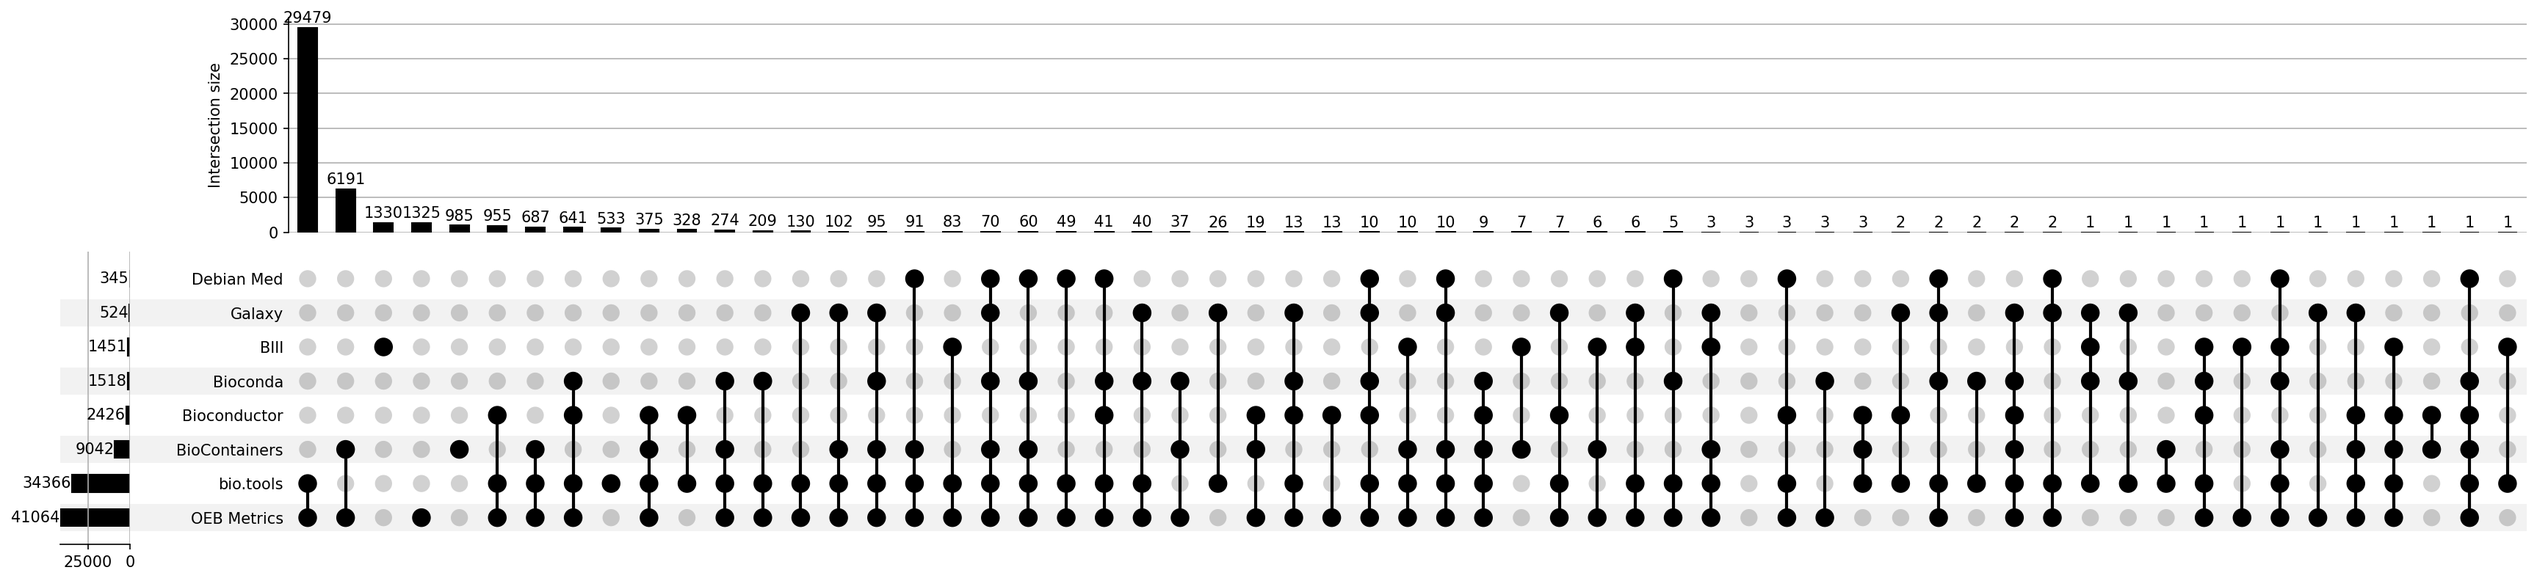
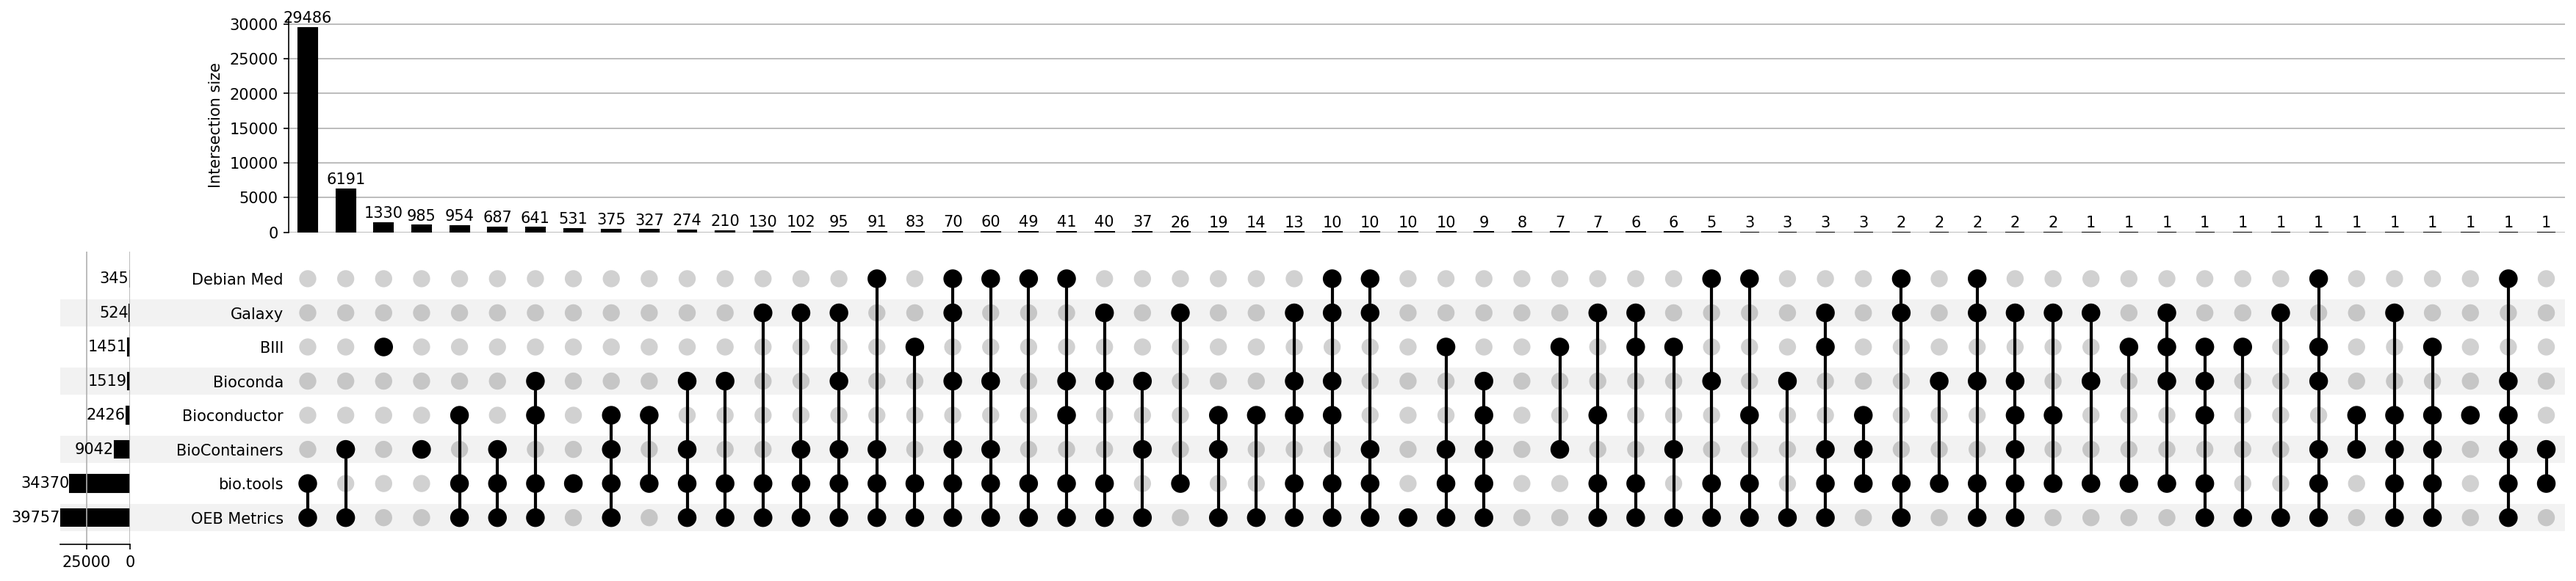
generate new contents report on Sun Aug 30 06:13:50 UTC 2026

diff --git a/report/summary.md b/report/summary.md
@@ -1,17 +1,17 @@
 # RSEc contents summary
 
-44288 tool folders, 8 sources.
+42984 tool folders, 8 sources.
 
 ## Tools per source
 
 | source | tools | share |
 | --- | --- | --- |
-| bio.tools | 34366 | 77.6% |
-| OEB Metrics | 41064 | 92.7% |
-| BioContainers | 9042 | 20.4% |
-| Bioconductor | 2426 | 5.5% |
-| Bioconda | 1518 | 3.4% |
-| BIII | 1451 | 3.3% |
+| bio.tools | 34370 | 80.0% |
+| OEB Metrics | 39757 | 92.5% |
+| BioContainers | 9042 | 21.0% |
+| Bioconductor | 2426 | 5.6% |
+| Bioconda | 1519 | 3.5% |
+| BIII | 1451 | 3.4% |
 | Galaxy | 524 | 1.2% |
 | Debian Med | 345 | 0.8% |
 
@@ -19,11 +19,11 @@
 
 | sources | tools | share |
 | --- | --- | --- |
-| 0 | 3 | 0.0% |
-| 1 | 4173 | 9.4% |
-| 2 | 36054 | 81.4% |
-| 3 | 2181 | 4.9% |
-| 4 | 1557 | 3.5% |
+| 0 | 8 | 0.0% |
+| 1 | 2857 | 6.6% |
+| 2 | 36061 | 83.9% |
+| 3 | 2181 | 5.1% |
+| 4 | 1557 | 3.6% |
 | 5 | 236 | 0.5% |
 | 6 | 84 | 0.2% |
 
@@ -31,19 +31,18 @@
 
 | sources present | tools |
 | --- | --- |
-| bio.tools + OEB Metrics | 29479 |
+| bio.tools + OEB Metrics | 29486 |
 | OEB Metrics + BioContainers | 6191 |
 | BIII only | 1330 |
-| OEB Metrics only | 1325 |
 | BioContainers only | 985 |
-| bio.tools + OEB Metrics + Bioconductor | 955 |
+| bio.tools + OEB Metrics + Bioconductor | 954 |
 | bio.tools + OEB Metrics + BioContainers | 687 |
 | bio.tools + OEB Metrics + Bioconductor + Bioconda | 641 |
-| bio.tools only | 533 |
+| bio.tools only | 531 |
 | bio.tools + OEB Metrics + BioContainers + Bioconductor | 375 |
-| bio.tools + Bioconductor | 328 |
+| bio.tools + Bioconductor | 327 |
 | bio.tools + OEB Metrics + BioContainers + Bioconda | 274 |
-| bio.tools + OEB Metrics + Bioconda | 209 |
+| bio.tools + OEB Metrics + Bioconda | 210 |
 | bio.tools + OEB Metrics + Galaxy | 130 |
 | bio.tools + OEB Metrics + BioContainers + Galaxy | 102 |
 | bio.tools + OEB Metrics + BioContainers + Bioconda + Galaxy | 95 |
@@ -57,36 +56,38 @@
 | OEB Metrics + BioContainers + Bioconda | 37 |
 | bio.tools + Galaxy | 26 |
 | OEB Metrics + BioContainers + Bioconductor | 19 |
+| OEB Metrics + Bioconductor | 14 |
 | bio.tools + OEB Metrics + Bioconductor + Bioconda + Galaxy | 13 |
-| OEB Metrics + Bioconductor | 13 |
 | bio.tools + OEB Metrics + Bioconductor + Bioconda + Galaxy + Debian Med | 10 |
-| bio.tools + OEB Metrics + BioContainers + BIII | 10 |
 | bio.tools + OEB Metrics + BioContainers + Galaxy + Debian Med | 10 |
+| OEB Metrics only | 10 |
+| bio.tools + OEB Metrics + BioContainers + BIII | 10 |
 | bio.tools + OEB Metrics + BioContainers + Bioconductor + Bioconda | 9 |
+| (no source) | 8 |
 | BioContainers + BIII | 7 |
 | bio.tools + OEB Metrics + Bioconductor + Galaxy | 7 |
-| OEB Metrics + BioContainers + BIII | 6 |
 | bio.tools + OEB Metrics + BIII + Galaxy | 6 |
+| OEB Metrics + BioContainers + BIII | 6 |
 | bio.tools + OEB Metrics + Bioconda + Debian Med | 5 |
-| bio.tools + OEB Metrics + BioContainers + BIII + Galaxy | 3 |
-| (no source) | 3 |
 | bio.tools + OEB Metrics + Bioconductor + Debian Med | 3 |
 | OEB Metrics + Bioconda | 3 |
+| bio.tools + OEB Metrics + BioContainers + BIII + Galaxy | 3 |
 | bio.tools + BioContainers + Bioconductor | 3 |
-| bio.tools + Bioconductor + Galaxy | 2 |
-| bio.tools + OEB Metrics + Bioconda + Galaxy + Debian Med | 2 |
-| bio.tools + Bioconda | 2 |
-| bio.tools + OEB Metrics + BioContainers + Bioconductor + Bioconda + Galaxy | 2 |
 | bio.tools + OEB Metrics + Galaxy + Debian Med | 2 |
-| bio.tools + Bioconda + BIII + Galaxy | 1 |
+| bio.tools + Bioconda | 2 |
+| bio.tools + OEB Metrics + Bioconda + Galaxy + Debian Med | 2 |
+| bio.tools + OEB Metrics + BioContainers + Bioconductor + Bioconda + Galaxy | 2 |
+| bio.tools + Bioconductor + Galaxy | 2 |
 | bio.tools + Bioconda + Galaxy | 1 |
-| bio.tools + BioContainers | 1 |
+| bio.tools + BIII | 1 |
+| bio.tools + Bioconda + BIII + Galaxy | 1 |
 | bio.tools + OEB Metrics + Bioconductor + Bioconda + BIII | 1 |
 | OEB Metrics + BIII | 1 |
-| bio.tools + OEB Metrics + BioContainers + Bioconda + BIII + Debian Med | 1 |
 | OEB Metrics + Galaxy | 1 |
+| bio.tools + OEB Metrics + BioContainers + Bioconda + BIII + Debian Med | 1 |
+| BioContainers + Bioconductor | 1 |
 | bio.tools + OEB Metrics + BioContainers + Bioconductor + Galaxy | 1 |
 | bio.tools + OEB Metrics + BioContainers + Bioconductor + BIII | 1 |
-| BioContainers + Bioconductor | 1 |
+| Bioconductor only | 1 |
 | bio.tools + OEB Metrics + BioContainers + Bioconductor + Bioconda + Debian Med | 1 |
-| bio.tools + BIII | 1 |
+| bio.tools + BioContainers | 1 |
